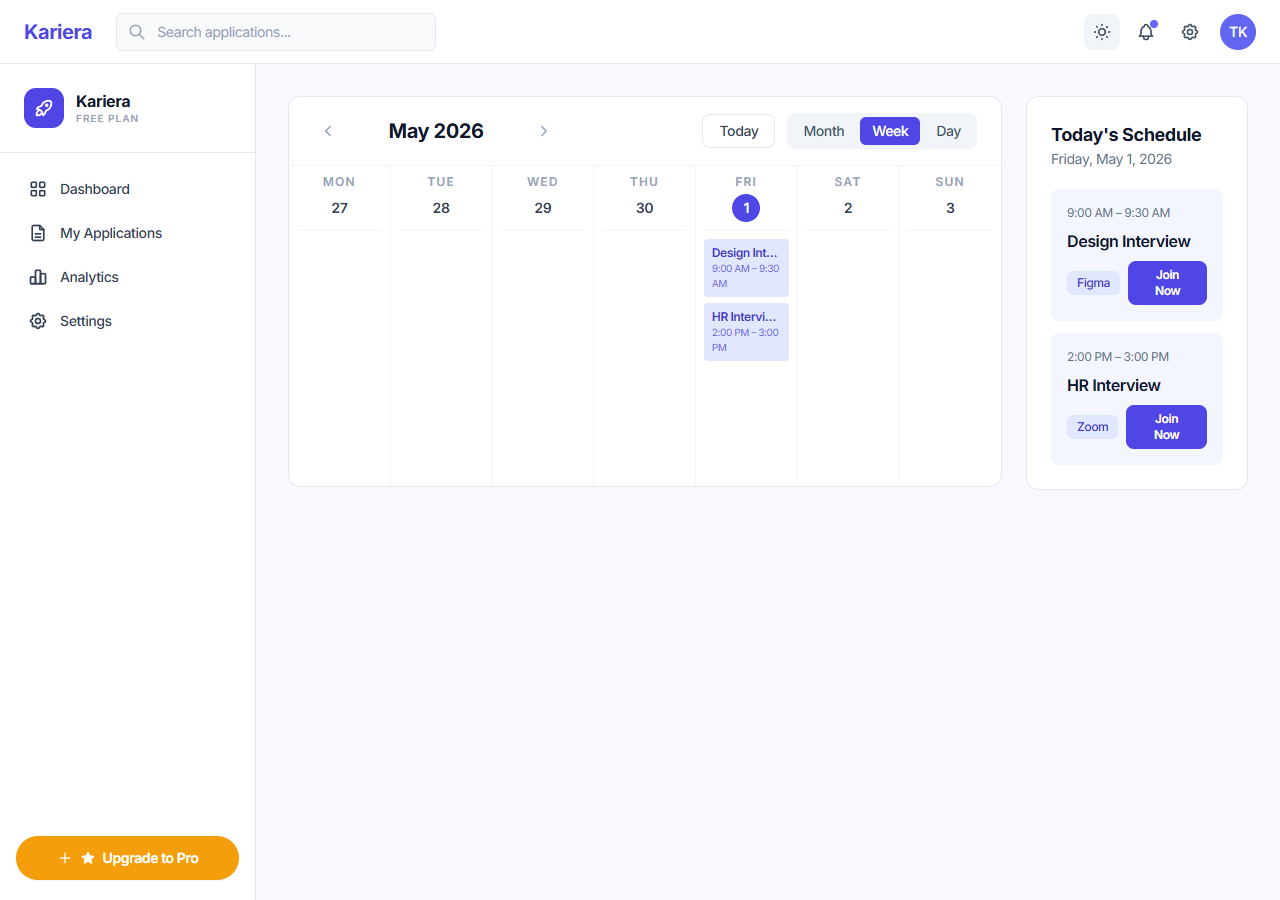
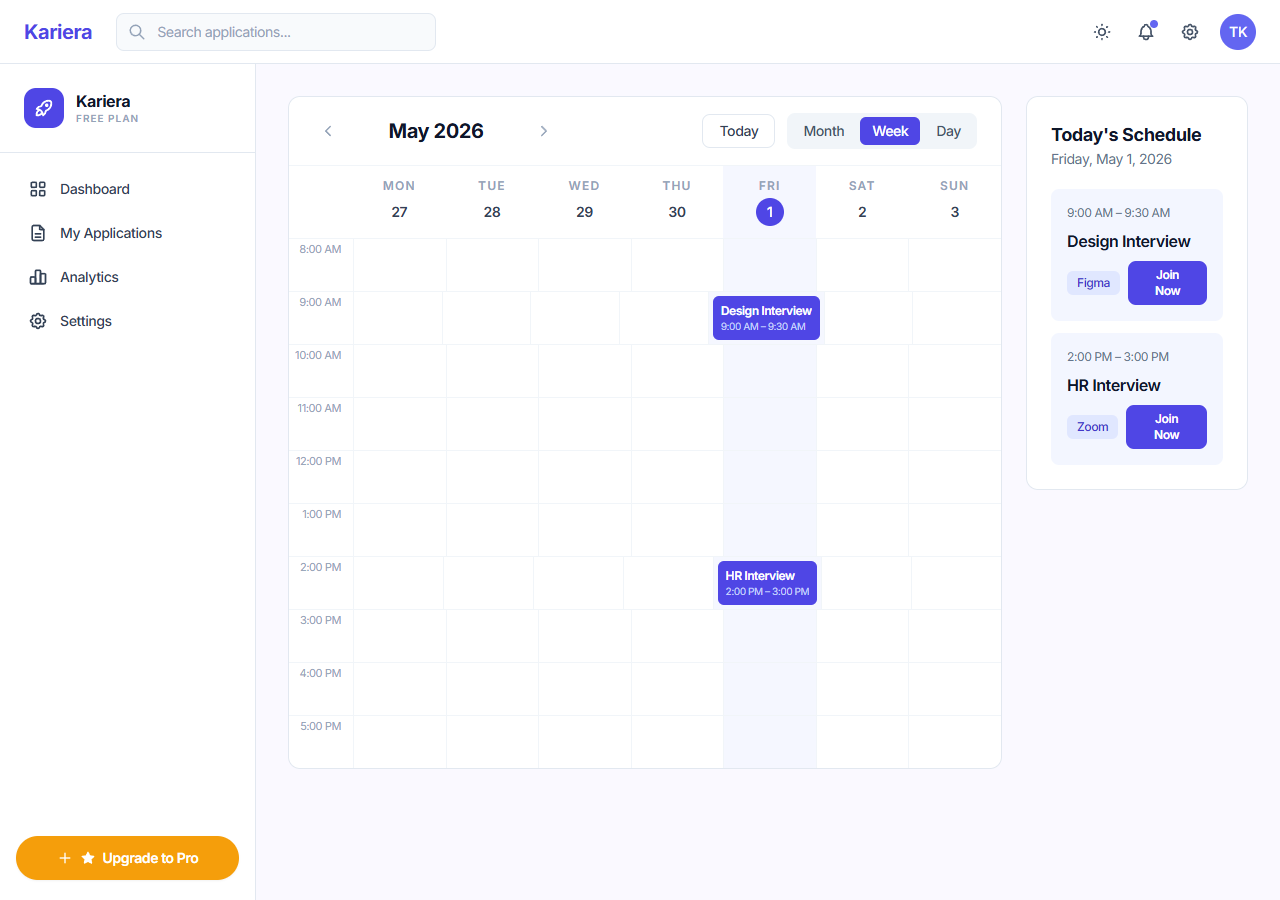
fix(ui): responsive notifications panel; redesigned calendar month/week views (time grid on desktop, day list and event dots on mobile)

diff --git a/app/(app)/calendar/page.tsx b/app/(app)/calendar/page.tsx
@@ -12,14 +12,13 @@ interface CalendarEvent {
   start: string;
   end: string;
   platform: string;
-  selected?: boolean;
 }
 
 // "Today" in the prototype is May 1, 2026.
 const TODAY = new Date(2026, 4, 1);
 
 const EVENTS: CalendarEvent[] = [
-  { date: '2026-05-01', label: 'Design Interview', start: '9:00 AM', end: '9:30 AM', platform: 'Figma', selected: true },
+  { date: '2026-05-01', label: 'Design Interview', start: '9:00 AM', end: '9:30 AM', platform: 'Figma' },
   { date: '2026-05-01', label: 'HR Interview', start: '2:00 PM', end: '3:00 PM', platform: 'Zoom' },
   { date: '2026-05-05', label: 'Interview', start: '11:00 AM', end: '12:00 PM', platform: 'Google Meet' },
   { date: '2026-05-12', label: 'Interview', start: '10:00 AM', end: '11:00 AM', platform: 'Zoom' },
@@ -27,6 +26,22 @@ const EVENTS: CalendarEvent[] = [
 ];
 
 const WEEKDAYS = ['Mon', 'Tue', 'Wed', 'Thu', 'Fri', 'Sat', 'Sun'];
+const DAY_START_HOUR = 8; // the time grid covers 8:00 AM – 5:00 PM
+const HOURS = Array.from({ length: 10 }, (_, i) => DAY_START_HOUR + i);
+
+function formatHour(hour24: number): string {
+  const meridiem = hour24 >= 12 ? 'PM' : 'AM';
+  const hour12 = hour24 % 12 === 0 ? 12 : hour24 % 12;
+  return `${hour12}:00 ${meridiem}`;
+}
+
+function hourOf(time: string): number {
+  const [clock, meridiem] = time.split(' ');
+  let hour = Number(clock.split(':')[0]);
+  if (meridiem === 'PM' && hour !== 12) hour += 12;
+  if (meridiem === 'AM' && hour === 12) hour = 0;
+  return hour;
+}
 
 function toKey(date: Date): string {
   return `${date.getFullYear()}-${String(date.getMonth() + 1).padStart(2, '0')}-${String(date.getDate()).padStart(2, '0')}`;
@@ -62,17 +77,6 @@ function buildMonthGrid(year: number, month: number): DayCell[] {
   return cells;
 }
 
-function EventPill({ event, onClick }: { event: CalendarEvent; onClick: () => void }) {
-  return (
-    <button
-      onClick={onClick}
-      className="block w-full text-left mt-1.5 px-2 py-0.5 rounded bg-indigo-100 dark:bg-indigo-900/40 text-indigo-700 dark:text-indigo-300 text-xs font-medium truncate hover:bg-indigo-200 dark:hover:bg-indigo-900/60 transition-colors"
-    >
-      {event.label}
-    </button>
-  );
-}
-
 export default function CalendarPage() {
   const [view, setView] = useState<CalendarView>('Month');
   const [cursor, setCursor] = useState<Date>(TODAY);
@@ -101,6 +105,9 @@ export default function CalendarPage() {
     return date;
   });
   const todayEvents = eventsOn(TODAY);
+
+  const eventPillClasses =
+    'block w-full text-left rounded bg-indigo-100 dark:bg-indigo-900/40 hover:bg-indigo-200 dark:hover:bg-indigo-900/60 transition-colors';
 
   return (
     <div className="grid grid-cols-1 xl:grid-cols-4 gap-6 items-start">
@@ -171,7 +178,7 @@ export default function CalendarPage() {
                 return (
                   <div
                     key={index}
-                    className={`min-h-[88px] sm:min-h-[110px] p-2 border-b border-r border-slate-100 dark:border-slate-700/50 [&:nth-child(7n)]:border-r-0 ${
+                    className={`min-h-[64px] sm:min-h-[110px] p-1.5 sm:p-2 border-b border-r border-slate-100 dark:border-slate-700/50 [&:nth-child(7n)]:border-r-0 ${
                       cell.inMonth ? '' : 'bg-slate-50/60 dark:bg-slate-900/30'
                     }`}
                   >
@@ -188,8 +195,141 @@ export default function CalendarPage() {
                         {cell.date.getDate()}
                       </span>
                     )}
+
+                    {/* Desktop: labelled pills */}
+                    <div className="hidden sm:block">
+                      {events.map((event) => (
+                        <button
+                          key={event.label + event.start}
+                          onClick={() => setOpenedEvent(event)}
+                          className={`${eventPillClasses} mt-1.5 px-2 py-0.5 text-xs font-medium text-indigo-700 dark:text-indigo-300 truncate`}
+                        >
+                          {event.label}
+                        </button>
+                      ))}
+                    </div>
+
+                    {/* Mobile: compact dots, tap opens the event */}
+                    {events.length > 0 && (
+                      <button
+                        aria-label={`Events on ${toKey(cell.date)}`}
+                        onClick={() => setOpenedEvent(events[0])}
+                        className="sm:hidden mt-1 flex items-center justify-center gap-1 w-full py-1"
+                      >
+                        {events.slice(0, 3).map((event) => (
+                          <span key={event.label + event.start} className="w-1.5 h-1.5 rounded-full bg-indigo-500" />
+                        ))}
+                      </button>
+                    )}
+                  </div>
+                );
+              })}
+            </div>
+          </>
+        )}
+
+        {/* Week view — time grid on desktop */}
+        {view === 'Week' && (
+          <>
+            <div className="hidden sm:block">
+              {/* Day header */}
+              <div className="grid grid-cols-[64px_repeat(7,1fr)] border-b border-slate-100 dark:border-slate-700">
+                <div />
+                {weekDays.map((date) => {
+                  const isToday = toKey(date) === toKey(TODAY);
+                  return (
+                    <div key={toKey(date)} className={`py-3 text-center ${isToday ? 'bg-indigo-50/60 dark:bg-indigo-900/10' : ''}`}>
+                      <p className="text-xs font-semibold tracking-widest text-slate-400 uppercase">
+                        {date.toLocaleDateString('en-US', { weekday: 'short' })}
+                      </p>
+                      <span
+                        className={`inline-flex w-7 h-7 mt-1 rounded-full text-sm font-semibold items-center justify-center ${
+                          isToday ? 'bg-indigo-600 text-white' : 'text-slate-700 dark:text-slate-300'
+                        }`}
+                      >
+                        {date.getDate()}
+                      </span>
+                    </div>
+                  );
+                })}
+              </div>
+
+              {/* Hour rows */}
+              {HOURS.map((hour) => (
+                <div
+                  key={hour}
+                  className="grid grid-cols-[64px_repeat(7,1fr)] border-b border-slate-100 dark:border-slate-700/50 last:border-b-0"
+                >
+                  <div className="py-3 pr-3 text-right text-[11px] text-slate-400 -translate-y-2.5">
+                    {formatHour(hour)}
+                  </div>
+                  {weekDays.map((date) => {
+                    const isToday = toKey(date) === toKey(TODAY);
+                    const events = eventsOn(date).filter((event) => hourOf(event.start) === hour);
+                    return (
+                      <div
+                        key={toKey(date)}
+                        className={`min-h-[52px] p-1 border-l border-slate-100 dark:border-slate-700/50 ${
+                          isToday ? 'bg-indigo-50/60 dark:bg-indigo-900/10' : ''
+                        }`}
+                      >
+                        {events.map((event) => (
+                          <button
+                            key={event.label + event.start}
+                            onClick={() => setOpenedEvent(event)}
+                            className="block w-full h-full text-left px-2 py-1.5 rounded-md bg-indigo-600 hover:bg-indigo-700 transition-colors"
+                          >
+                            <span className="block text-xs font-semibold text-white truncate">{event.label}</span>
+                            <span className="block text-[10px] text-indigo-200 whitespace-nowrap">
+                              {event.start} – {event.end}
+                            </span>
+                          </button>
+                        ))}
+                      </div>
+                    );
+                  })}
+                </div>
+              ))}
+            </div>
+
+            {/* Mobile: vertical list of days */}
+            <div className="sm:hidden">
+              {weekDays.map((date) => {
+                const events = eventsOn(date);
+                const isToday = toKey(date) === toKey(TODAY);
+                return (
+                  <div
+                    key={toKey(date)}
+                    className="p-3 border-b border-slate-100 dark:border-slate-700/50 last:border-0"
+                  >
+                    <div className="flex items-center gap-2 mb-2">
+                      <p className="text-xs font-semibold tracking-widest text-slate-400 uppercase">
+                        {date.toLocaleDateString('en-US', { weekday: 'short' })}
+                      </p>
+                      <span
+                        className={`inline-flex w-7 h-7 rounded-full text-sm font-semibold items-center justify-center ${
+                          isToday ? 'bg-indigo-600 text-white' : 'text-slate-700 dark:text-slate-300'
+                        }`}
+                      >
+                        {date.getDate()}
+                      </span>
+                      {events.length === 0 && (
+                        <span className="text-xs text-slate-300 dark:text-slate-600 ml-auto">No events</span>
+                      )}
+                    </div>
                     {events.map((event) => (
-                      <EventPill key={event.label + event.start} event={event} onClick={() => setOpenedEvent(event)} />
+                      <button
+                        key={event.label + event.start}
+                        onClick={() => setOpenedEvent(event)}
+                        className={`${eventPillClasses} mb-1.5 px-3 py-2`}
+                      >
+                        <span className="block text-sm font-semibold text-indigo-700 dark:text-indigo-300 truncate">
+                          {event.label}
+                        </span>
+                        <span className="block text-xs text-indigo-600/80 dark:text-indigo-400 whitespace-nowrap">
+                          {event.start} – {event.end}
+                        </span>
+                      </button>
                     ))}
                   </div>
                 );
@@ -198,78 +338,33 @@ export default function CalendarPage() {
           </>
         )}
 
-        {/* Week view */}
-        {view === 'Week' && (
-          <div className="grid grid-cols-7">
-            {weekDays.map((date) => {
-              const events = eventsOn(date);
-              const isToday = toKey(date) === toKey(TODAY);
+        {/* Day view — single-day time grid */}
+        {view === 'Day' && (
+          <div>
+            {HOURS.map((hour) => {
+              const events = eventsOn(cursor).filter((event) => hourOf(event.start) === hour);
               return (
-                <div
-                  key={toKey(date)}
-                  className="min-h-[320px] p-2 border-r border-slate-100 dark:border-slate-700/50 last:border-r-0"
-                >
-                  <div className="text-center pb-2 border-b border-slate-100 dark:border-slate-700 mb-2">
-                    <p className="text-xs font-semibold tracking-widest text-slate-400 uppercase">
-                      {date.toLocaleDateString('en-US', { weekday: 'short' })}
-                    </p>
-                    <span
-                      className={`inline-flex w-7 h-7 mt-1 rounded-full text-sm font-semibold items-center justify-center ${
-                        isToday ? 'bg-indigo-600 text-white' : 'text-slate-700 dark:text-slate-300'
-                      }`}
-                    >
-                      {date.getDate()}
-                    </span>
+                <div key={hour} className="flex border-b border-slate-100 dark:border-slate-700/50 last:border-0">
+                  <div className="w-20 sm:w-24 shrink-0 py-4 px-3 text-xs text-slate-400 text-right">
+                    {formatHour(hour)}
                   </div>
-                  {events.map((event) => (
-                    <button
-                      key={event.label + event.start}
-                      onClick={() => setOpenedEvent(event)}
-                      className="block w-full text-left mb-1.5 px-2 py-1.5 rounded bg-indigo-100 dark:bg-indigo-900/40 hover:bg-indigo-200 dark:hover:bg-indigo-900/60 transition-colors"
-                    >
-                      <span className="block text-xs font-semibold text-indigo-700 dark:text-indigo-300 truncate">
-                        {event.label}
-                      </span>
-                      <span className="block text-[10px] text-indigo-600/80 dark:text-indigo-400">
-                        {event.start} – {event.end}
-                      </span>
-                    </button>
-                  ))}
+                  <div className="flex-1 py-2 px-2 border-l border-slate-100 dark:border-slate-700/50 min-h-[52px]">
+                    {events.map((event) => (
+                      <button
+                        key={event.label + event.start}
+                        onClick={() => setOpenedEvent(event)}
+                        className="block w-full max-w-md text-left px-3 py-2 rounded-md bg-indigo-600 hover:bg-indigo-700 transition-colors"
+                      >
+                        <span className="block text-sm font-semibold text-white">{event.label}</span>
+                        <span className="block text-xs text-indigo-200">
+                          {event.start} – {event.end} • {event.platform}
+                        </span>
+                      </button>
+                    ))}
+                  </div>
                 </div>
               );
             })}
-          </div>
-        )}
-
-        {/* Day view */}
-        {view === 'Day' && (
-          <div>
-            {['8:00 AM', '9:00 AM', '10:00 AM', '11:00 AM', '12:00 PM', '1:00 PM', '2:00 PM', '3:00 PM', '4:00 PM', '5:00 PM'].map(
-              (hour) => {
-                const events = eventsOn(cursor).filter((event) => event.start.startsWith(hour.split(':')[0] + ':') && event.start.endsWith(hour.slice(-2)));
-                return (
-                  <div key={hour} className="flex border-b border-slate-100 dark:border-slate-700/50 last:border-0">
-                    <div className="w-24 shrink-0 py-4 px-4 text-xs text-slate-400 text-right">{hour}</div>
-                    <div className="flex-1 py-2 px-2 border-l border-slate-100 dark:border-slate-700/50">
-                      {events.map((event) => (
-                        <button
-                          key={event.label + event.start}
-                          onClick={() => setOpenedEvent(event)}
-                          className="block w-full max-w-md text-left px-3 py-2 rounded-lg bg-indigo-100 dark:bg-indigo-900/40 hover:bg-indigo-200 dark:hover:bg-indigo-900/60 transition-colors"
-                        >
-                          <span className="block text-sm font-semibold text-indigo-700 dark:text-indigo-300">
-                            {event.label}
-                          </span>
-                          <span className="block text-xs text-indigo-600/80 dark:text-indigo-400">
-                            {event.start} – {event.end} • {event.platform}
-                          </span>
-                        </button>
-                      ))}
-                    </div>
-                  </div>
-                );
-              },
-            )}
           </div>
         )}
       </div>
@@ -309,7 +404,9 @@ export default function CalendarPage() {
         onClose={() => setOpenedEvent(null)}
         meeting={{
           title: openedEvent?.label ?? '',
-          time: openedEvent ? `${new Date(openedEvent.date).toLocaleDateString('en-US', { month: 'long', day: 'numeric', year: 'numeric' })}, ${openedEvent.start} – ${openedEvent.end}` : '',
+          time: openedEvent
+            ? `${new Date(openedEvent.date).toLocaleDateString('en-US', { month: 'long', day: 'numeric', year: 'numeric' })}, ${openedEvent.start} – ${openedEvent.end}`
+            : '',
           platform: openedEvent?.platform ?? '',
           link: 'https://zoom.us/j/87459123650',
         }}

diff --git a/src/components/app/NotificationsMenu.tsx b/src/components/app/NotificationsMenu.tsx
@@ -69,7 +69,7 @@ export default function NotificationsMenu() {
       </button>
 
       {open && (
-        <div className="absolute right-0 mt-2 w-80 bg-white dark:bg-slate-800 rounded-xl border border-slate-200 dark:border-slate-700 shadow-lg z-40 overflow-hidden">
+        <div className="fixed inset-x-3 top-16 sm:absolute sm:inset-x-auto sm:top-auto sm:right-0 sm:mt-2 sm:w-80 bg-white dark:bg-slate-800 rounded-xl border border-slate-200 dark:border-slate-700 shadow-lg z-40 overflow-hidden">
           <div className="px-4 py-3 border-b border-slate-100 dark:border-slate-700 flex items-center justify-between">
             <h3 className="font-semibold text-slate-900 dark:text-white text-sm">Notifications</h3>
             {unreadCount > 0 && (

diff --git a/README.md b/README.md
@@ -186,9 +186,9 @@ raportuje pageview do GA4 i Contentsquare przy każdej zmianie trasy.
 | ![Kalendarz Desktop](docs/screenshots/calendar.png) | ![Kalendarz Mobile](docs/screenshots/mobile-calendar.png) |
 
 ### Kalendarz — widok tygodnia
-| Desktop       |
-|:-------------:|
-| ![Kalendarz tydzień](docs/screenshots/calendar-week.png) |
+| Desktop       | Mobile     |
+|:-------------:|:------------:|
+| ![Kalendarz tydzień Desktop](docs/screenshots/calendar-week.png) | ![Kalendarz tydzień Mobile](docs/screenshots/mobile-calendar-week.png) |
 
 ### Ustawienia
 | Desktop       | Mobile     |
